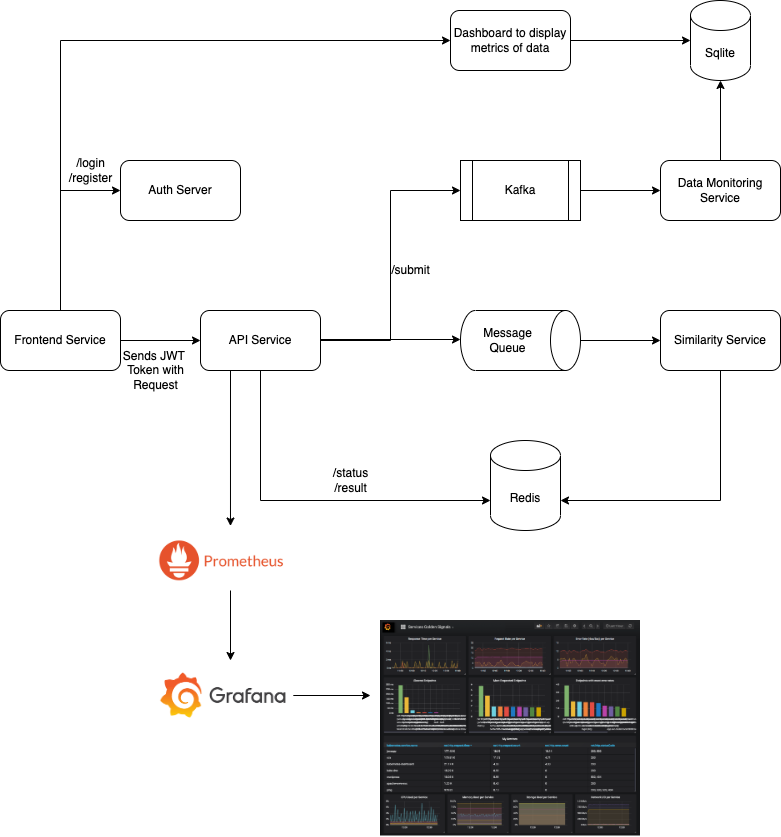
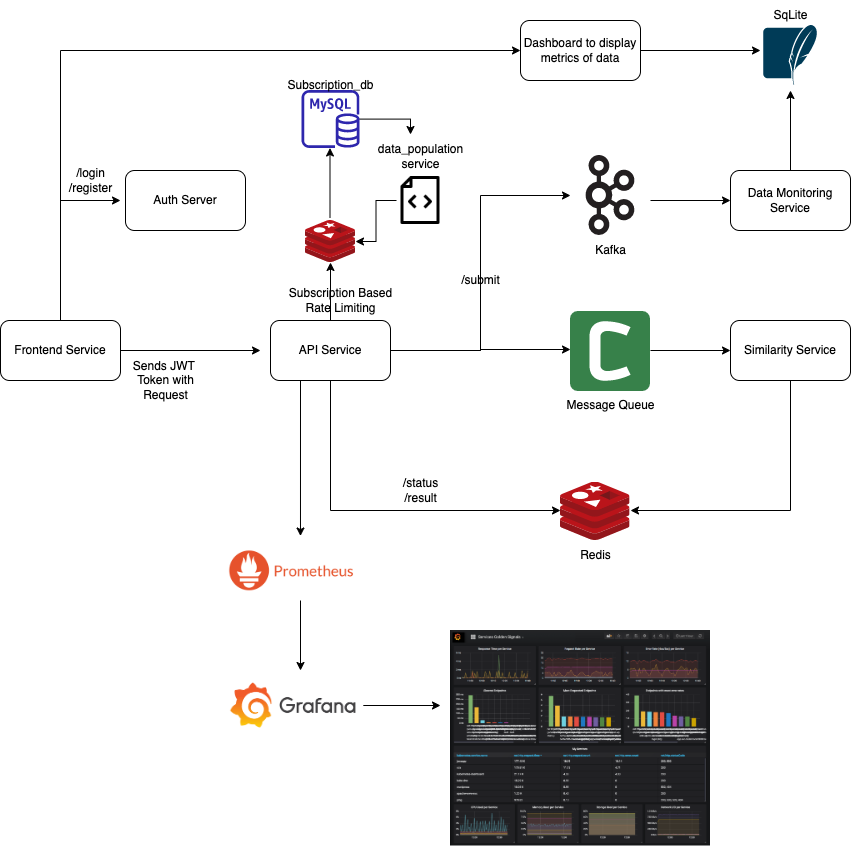
Updated architecure diagram

diff --git a/Readme.md b/Readme.md
@@ -3,7 +3,7 @@
 Dis-Sim is a Microservices architecture based distributed image similarity measuring system. It uses asynchronous message queue to communicate across microservices. Its distributed architecture makes it highly scalable and fault tolerant.
 It has a built in data monitoring and analytics service which uses Kafka as a message broker, and sqlite3 as a database.
 
-![architecture](https://user-images.githubusercontent.com/46635452/210271816-1da8b5b4-1527-4056-95df-b4fd6a116849.png)
+![architecture](https://user-images.githubusercontent.com/46635452/217212595-3d73c8d9-d2ed-4559-a4f9-7815320c7b58.png)
 
 
 
